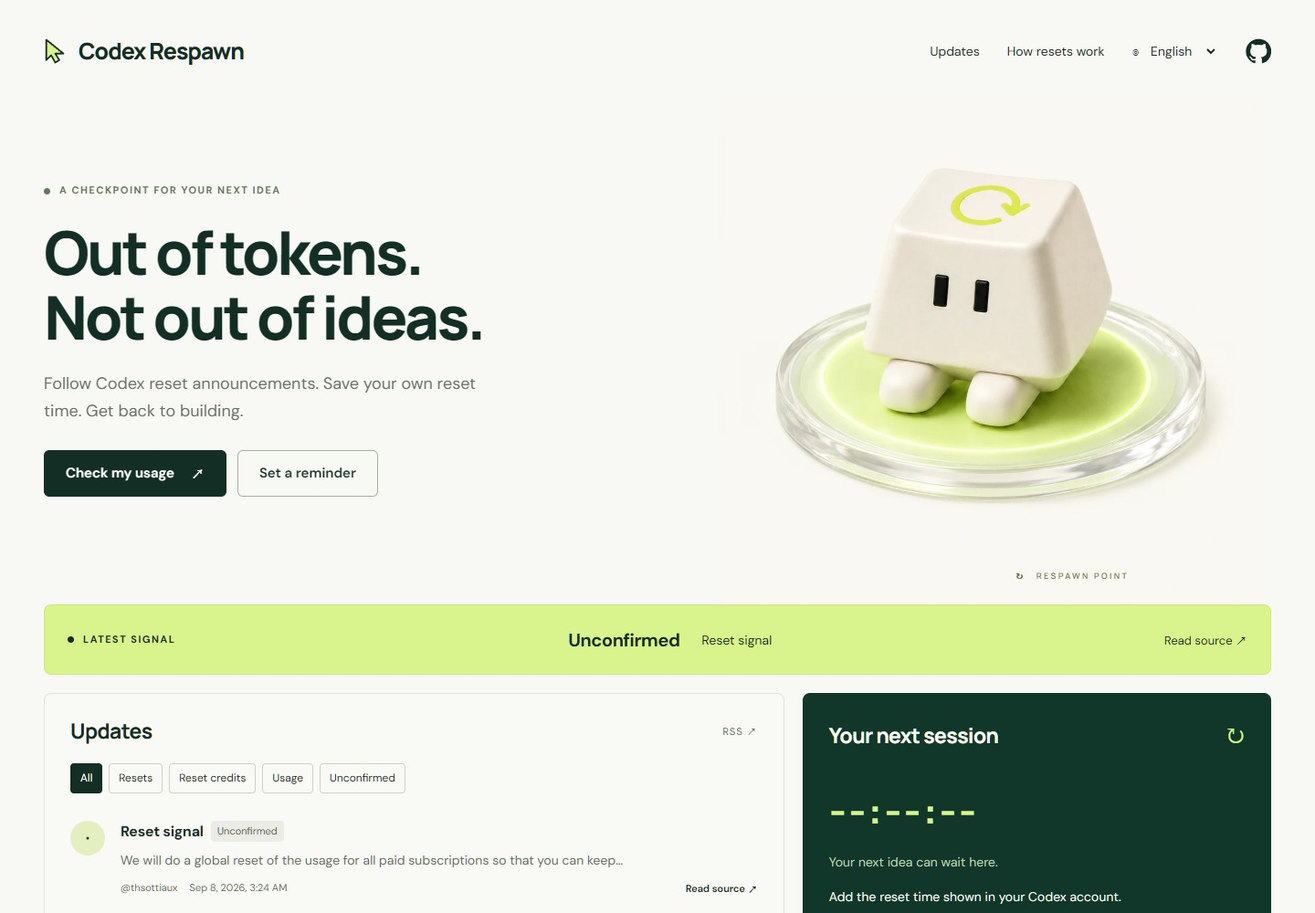
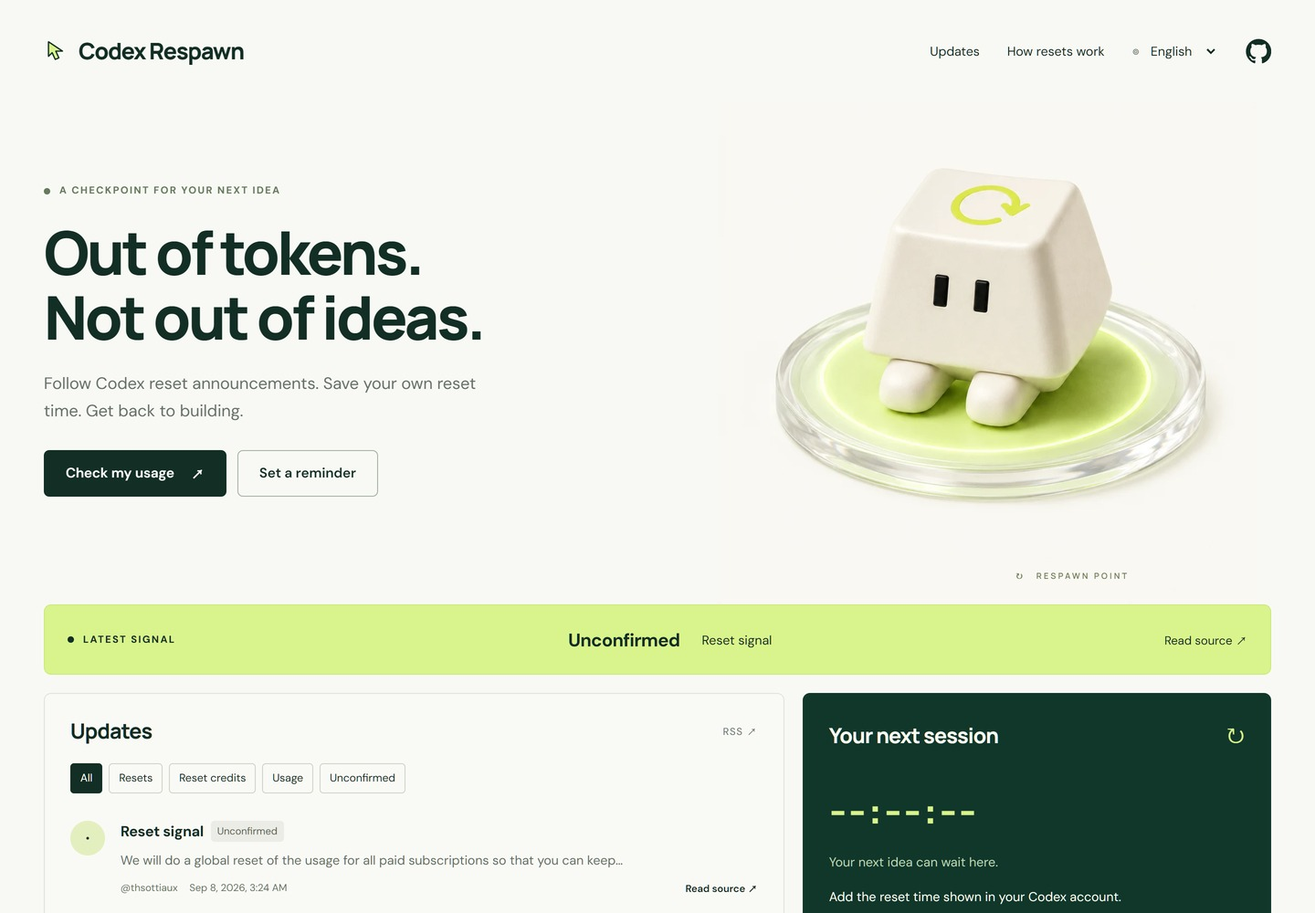
Preserve pixel cursor texture and add independent source discovery

Changed region(s): [[0.0312, 0.031, 0.1875, 0.062], [0.7188, 0.961, 0.75, 0.992], [0.125, 0.899, 0.1562, 0.93]]

diff --git a/src/style.css b/src/style.css
@@ -1,8 +1,8 @@
 @font-face{font-family:Manrope;src:url('./manrope-latin.woff2') format('woff2');font-weight:200 800;font-display:swap}@font-face{font-family:'DM Sans';src:url('./dm-sans-latin.woff2') format('woff2');font-weight:100 1000;font-display:swap}
-:root{--paper:#f8f9f4;--ink:#122e25;--muted:#667168;--lime:#d9f48c;--line:#dfe3d9;--font:'DM Sans',Arial,'Microsoft YaHei','Noto Sans',sans-serif;color:var(--ink);background:var(--paper);font-family:var(--font);font-synthesis:none;scroll-behavior:smooth;scroll-padding-top:24px}*{box-sizing:border-box}body{margin:0}a{color:inherit;text-decoration:none}button,input,select{font:inherit}button,a,select,input{-webkit-tap-highlight-color:transparent}button,select{cursor:pointer}button{color:inherit}button:disabled{cursor:default}a:focus-visible,button:focus-visible,select:focus-visible,input:focus-visible,summary:focus-visible{outline:3px solid #7b9d2f;outline-offset:5px}[hidden]{display:none!important}.shell{max-width:1440px;padding:0 48px;margin:auto}.site-header{height:112px;display:flex;justify-content:space-between;align-items:center;gap:24px}.brand{display:flex;align-items:center;gap:13px;white-space:nowrap;font:800 25px/1.1 Manrope,var(--font);letter-spacing:-1.1px}.brand-icon{width:25px;height:32px;color:var(--lime)}nav{display:flex;align-items:center;gap:30px;font-size:14px}nav a:hover,.text-link:hover,.footer-links a:hover{text-decoration:underline;text-underline-offset:5px}.language{display:flex;align-items:center;gap:6px}.language select{background:transparent;color:var(--ink);border:0;max-width:130px;padding:10px 2px}.github{width:28px;height:28px;flex-shrink:0}.github svg{width:100%;height:100%}.hero{display:grid;grid-template-columns:1.16fr 1fr;align-items:center;min-height:440px;position:relative}.hero-copy{position:relative;z-index:1;padding:28px 0 58px}.eyebrow{font-size:11px;font-weight:700;letter-spacing:1.5px;text-transform:uppercase;display:flex;gap:10px;align-items:center;line-height:1.6}.eyebrow span:first-child{width:7px;height:7px;border-radius:50%;background:currentColor;flex-shrink:0}.hero .eyebrow{color:#657a5d;margin:0 0 23px}h1{font:800 clamp(40px,4.6vw,66px)/1.07 Manrope,var(--font);letter-spacing:-3.1px;margin:0;max-width:700px}.intro{font-size:18px;line-height:1.65;color:var(--muted);max-width:490px;margin:24px 0 27px}.actions{display:flex;flex-wrap:wrap;gap:12px}.button{border:1px solid #a5b0a2;background:transparent;border-radius:6px;min-height:51px;padding:14px 23px;display:inline-flex;align-items:center;justify-content:center;gap:18px;font-weight:600;font-size:15px;transition:background .16s,transform .16s}.button:hover{background:#edf0e6;transform:translateY(-1px)}.primary{background:var(--ink);color:#fff;border-color:var(--ink)}.primary:hover{background:#244b3d}.hero-art{align-self:stretch;position:relative;display:flex;align-items:center;justify-content:center;min-width:0;isolation:isolate}.hero-art img{width:112%;height:auto;max-width:590px;object-fit:contain;mix-blend-mode:multiply;margin-top:-40px;pointer-events:none}.orbit-label{position:absolute;bottom:27px;right:25%;font:600 9px/1 Manrope,var(--font);letter-spacing:2.4px;color:#6e7d57}.latest-strip{display:flex;align-items:center;justify-content:space-between;gap:22px;padding:21px 25px;background:var(--lime);border:1px solid #cce97a;border-radius:8px;margin-bottom:20px;min-height:77px}.latest-strip a{font-size:13px;white-space:nowrap}.latest-message{display:flex;align-items:center;gap:24px;flex:1;justify-content:center}.latest-message strong{font-size:20px;letter-spacing:-.5px}.latest-message>span{font-size:14px}.content-grid{display:grid;grid-template-columns:minmax(0,1.58fr) minmax(280px,1fr);gap:20px;align-items:start}.updates-panel{border:1px solid var(--line);border-radius:8px;padding:26px 28px 12px;background:#ffffff30}.section-heading{display:flex;justify-content:space-between;gap:15px;align-items:center;margin-bottom:20px}h2{font:750 23px/1.3 Manrope,var(--font);letter-spacing:-.7px;margin:0}.feed-link{font-size:11px;color:var(--muted);letter-spacing:1px}.filters{display:flex;gap:7px;flex-wrap:wrap;margin-bottom:10px}.filters button{font-size:11px;padding:7px 10px;min-height:33px;border:1px solid #cdd4c7;background:transparent;border-radius:4px}.filters button[aria-pressed=true]{background:var(--ink);border-color:var(--ink);color:white}.event-row{padding:22px 0;display:flex;gap:17px;border-bottom:1px solid var(--line)}.event-row:last-child{border:0}.event-icon{background:#e4efbf;border-radius:50%;width:38px;height:38px;display:flex;align-items:center;justify-content:center;font-size:26px;flex-shrink:0}.event-main{min-width:0;flex:1}.event-title{display:flex;gap:8px;align-items:center;flex-wrap:wrap}.event-title>a{font-weight:700;font-size:16px;letter-spacing:-.25px}.event-title>a:hover{text-decoration:underline}.badge{font-size:10px;padding:4px 7px;background:#e8eddf;border-radius:4px;display:inline-block;line-height:1.4}.badge.unconfirmed{background:#ebece5;color:#596353}.badge.reported{background:#dcedb7}.badge.announced{background:#e6efc4}.excerpt{font-size:13px;line-height:1.6;color:#677064;margin:9px 0 11px;overflow-wrap:anywhere}.event-meta{display:flex;flex-wrap:wrap;gap:6px 13px;align-items:center;color:#798075;font-size:10px}.event-meta a{margin-inline-start:auto;color:var(--ink);font-weight:600}.more{background:transparent;border:0;width:100%;padding:18px 0;font-size:12px;font-weight:600;display:flex;justify-content:space-between;align-items:center}.timer-card{background:#11372b;color:#f8faef;padding:30px 29px;border-radius:8px;position:sticky;top:24px}.timer-heading{display:flex;justify-content:space-between;align-items:center;gap:10px}.timer-heading>span{font-size:25px;color:var(--lime)}.timer-card h2{font-size:23px}.clock{font-family:Manrope,var(--font);font-variant-numeric:tabular-nums;font-size:clamp(28px,3.3vw,46px);font-weight:700;letter-spacing:2px;color:var(--lime);margin:34px 0 12px;white-space:nowrap}.timer-state{font-size:12px;color:#bcd4b2;min-height:20px}.timer-card>p{line-height:1.7;font-size:14px}.timer-card .lime{background:var(--lime);color:var(--ink);border-color:var(--lime);width:100%;margin-top:15px}.timer-card .lime:hover{background:#e5ffa4}.timer-card .timer-note{font-size:10px;color:#aec3ad;margin-top:23px}.timer-form{margin-top:20px}.timer-form label{display:block;font-size:12px;line-height:1.5;margin-bottom:8px}.timer-form input{display:block;min-width:0;width:100%;padding:12px 8px;border:1px solid #73927b;border-radius:4px;color:#f8faef;background:#264c3e;color-scheme:dark;direction:ltr}.timer-tools{display:flex;flex-wrap:wrap;gap:12px;margin-top:18px}.timer-tools button{color:#d7e7c1;background:none;border:0;padding:0;font-size:11px;text-decoration:underline;text-underline-offset:4px}.form-error{font-size:12px;color:#f4dfa3}.faq{border:1px solid var(--line);border-radius:8px;margin-top:22px;padding:24px 28px}.faq-heading{display:flex;align-items:center;gap:20px;margin-bottom:20px}.faq h2{font-size:20px}.bulb{background:var(--ink);color:var(--lime);font-size:30px;width:44px;height:44px;border-radius:50%;display:flex;align-items:center;justify-content:center;flex-shrink:0}.faq details{border-top:1px solid var(--line)}summary{padding:18px 0;list-style:none;display:flex;justify-content:space-between;align-items:center;gap:20px;cursor:pointer;font-size:14px;font-weight:600}summary::-webkit-details-marker{display:none}summary span{font-size:22px;font-weight:400}details[open] summary span{transform:rotate(45deg)}details p{font-size:14px;color:var(--muted);line-height:1.85;margin:0 0 20px;max-width:900px}details p a{text-decoration:underline}.source-health{padding:25px 0;border-bottom:1px solid var(--line);font-size:11px;color:var(--muted);line-height:1.7}.source-health>div:first-child{display:flex;align-items:center;gap:8px 14px;flex-wrap:wrap}.health-dot{width:6px;height:6px;border-radius:50%;background:#729440}.health-dot.stale,.health-dot.degraded{background:#b78a39}.source-health p{margin:8px 0}.data-links{display:flex;flex-wrap:wrap;gap:20px}.data-links a{color:var(--ink)}footer{padding:26px 0 32px}.footer-links{display:flex;justify-content:space-between;flex-wrap:wrap;gap:15px;font-size:12px}.footer-note{display:flex;justify-content:space-between;flex-wrap:wrap;gap:9px;margin-top:23px;font-size:9px;color:#87917f;line-height:1.7}.skip{position:absolute;top:-100px}.skip:focus{top:10px;left:10px;padding:15px;background:white;z-index:10}.detail{padding:40px 0 64px;max-width:900px}.detail .eyebrow{margin-top:40px}.detail h1{margin-bottom:22px}.detail .source-caption{margin-top:35px;color:var(--muted);font-size:12px}.detail blockquote{font-size:clamp(22px,3vw,36px);line-height:1.5;margin:15px 0 24px;font-weight:500;overflow-wrap:anywhere}.detail>p:not(.eyebrow){line-height:1.8}.detail .actions{margin:24px 0}.muted,.text-link{color:var(--muted);font-size:13px}.toast{position:fixed;bottom:24px;left:50%;transform:translateX(-50%);padding:13px 22px;background:var(--ink);color:white;border-radius:6px;box-shadow:0 5px 20px #0002;z-index:10}html[lang^=zh] h1,html[lang=ja] h1,html[lang=ko] h1{font-size:clamp(36px,4.4vw,62px);letter-spacing:-1.5px;line-height:1.23;word-break:normal;overflow-wrap:normal}html[lang=ar] h1{line-height:1.3;letter-spacing:0}html[lang=ar] .eyebrow{letter-spacing:0}html[dir=rtl] .hero-art img{transform:scaleX(-1)}
+:root{--paper:#f8f9f4;--ink:#122e25;--muted:#667168;--lime:#d9f48c;--line:#dfe3d9;--font:'DM Sans',Arial,'Microsoft YaHei','Noto Sans',sans-serif;color:var(--ink);background:var(--paper);font-family:var(--font);font-synthesis:none;scroll-behavior:smooth;scroll-padding-top:24px}*{box-sizing:border-box}body{margin:0}a{color:inherit;text-decoration:none}button,input,select{font:inherit}button,a,select,input{-webkit-tap-highlight-color:transparent}button,select{cursor:pointer}button{color:inherit}button:disabled{cursor:default}a:focus-visible,button:focus-visible,select:focus-visible,input:focus-visible,summary:focus-visible{outline:3px solid #7b9d2f;outline-offset:5px}[hidden]{display:none!important}.shell{max-width:1440px;padding:0 48px;margin:auto}.site-header{height:112px;display:flex;justify-content:space-between;align-items:center;gap:24px}.brand{display:flex;align-items:center;gap:13px;white-space:nowrap;font:800 25px/1.1 Manrope,var(--font);letter-spacing:-1.1px}.brand-icon{width:30px;height:34px;color:var(--lime)}nav{display:flex;align-items:center;gap:30px;font-size:14px}nav a:hover,.text-link:hover,.footer-links a:hover{text-decoration:underline;text-underline-offset:5px}.language{display:flex;align-items:center;gap:6px}.language select{background:transparent;color:var(--ink);border:0;max-width:130px;padding:10px 2px}.github{width:28px;height:28px;flex-shrink:0}.github svg{width:100%;height:100%}.hero{display:grid;grid-template-columns:1.16fr 1fr;align-items:center;min-height:440px;position:relative}.hero-copy{position:relative;z-index:1;padding:28px 0 58px}.eyebrow{font-size:11px;font-weight:700;letter-spacing:1.5px;text-transform:uppercase;display:flex;gap:10px;align-items:center;line-height:1.6}.eyebrow span:first-child{width:7px;height:7px;border-radius:50%;background:currentColor;flex-shrink:0}.hero .eyebrow{color:#657a5d;margin:0 0 23px}h1{font:800 clamp(40px,4.6vw,66px)/1.07 Manrope,var(--font);letter-spacing:-3.1px;margin:0;max-width:700px}.intro{font-size:18px;line-height:1.65;color:var(--muted);max-width:490px;margin:24px 0 27px}.actions{display:flex;flex-wrap:wrap;gap:12px}.button{border:1px solid #a5b0a2;background:transparent;border-radius:6px;min-height:51px;padding:14px 23px;display:inline-flex;align-items:center;justify-content:center;gap:18px;font-weight:600;font-size:15px;transition:background .16s,transform .16s}.button:hover{background:#edf0e6;transform:translateY(-1px)}.primary{background:var(--ink);color:#fff;border-color:var(--ink)}.primary:hover{background:#244b3d}.hero-art{align-self:stretch;position:relative;display:flex;align-items:center;justify-content:center;min-width:0;isolation:isolate}.hero-art img{width:112%;height:auto;max-width:590px;object-fit:contain;mix-blend-mode:multiply;margin-top:-40px;pointer-events:none}.orbit-label{position:absolute;bottom:27px;right:25%;font:600 9px/1 Manrope,var(--font);letter-spacing:2.4px;color:#6e7d57}.latest-strip{display:flex;align-items:center;justify-content:space-between;gap:22px;padding:21px 25px;background:var(--lime);border:1px solid #cce97a;border-radius:8px;margin-bottom:20px;min-height:77px}.latest-strip a{font-size:13px;white-space:nowrap}.latest-message{display:flex;align-items:center;gap:24px;flex:1;justify-content:center}.latest-message strong{font-size:20px;letter-spacing:-.5px}.latest-message>span{font-size:14px}.content-grid{display:grid;grid-template-columns:minmax(0,1.58fr) minmax(280px,1fr);gap:20px;align-items:start}.updates-panel{border:1px solid var(--line);border-radius:8px;padding:26px 28px 12px;background:#ffffff30}.section-heading{display:flex;justify-content:space-between;gap:15px;align-items:center;margin-bottom:20px}h2{font:750 23px/1.3 Manrope,var(--font);letter-spacing:-.7px;margin:0}.feed-link{font-size:11px;color:var(--muted);letter-spacing:1px}.filters{display:flex;gap:7px;flex-wrap:wrap;margin-bottom:10px}.filters button{font-size:11px;padding:7px 10px;min-height:33px;border:1px solid #cdd4c7;background:transparent;border-radius:4px}.filters button[aria-pressed=true]{background:var(--ink);border-color:var(--ink);color:white}.event-row{padding:22px 0;display:flex;gap:17px;border-bottom:1px solid var(--line)}.event-row:last-child{border:0}.event-icon{background:#e4efbf;border-radius:50%;width:38px;height:38px;display:flex;align-items:center;justify-content:center;font-size:26px;flex-shrink:0}.event-main{min-width:0;flex:1}.event-title{display:flex;gap:8px;align-items:center;flex-wrap:wrap}.event-title>a{font-weight:700;font-size:16px;letter-spacing:-.25px}.event-title>a:hover{text-decoration:underline}.badge{font-size:10px;padding:4px 7px;background:#e8eddf;border-radius:4px;display:inline-block;line-height:1.4}.badge.unconfirmed{background:#ebece5;color:#596353}.badge.reported{background:#dcedb7}.badge.announced{background:#e6efc4}.excerpt{font-size:13px;line-height:1.6;color:#677064;margin:9px 0 11px;overflow-wrap:anywhere}.event-meta{display:flex;flex-wrap:wrap;gap:6px 13px;align-items:center;color:#798075;font-size:10px}.event-meta a{margin-inline-start:auto;color:var(--ink);font-weight:600}.more{background:transparent;border:0;width:100%;padding:18px 0;font-size:12px;font-weight:600;display:flex;justify-content:space-between;align-items:center}.timer-card{background:#11372b;color:#f8faef;padding:30px 29px;border-radius:8px;position:sticky;top:24px}.timer-heading{display:flex;justify-content:space-between;align-items:center;gap:10px}.timer-heading>span{font-size:25px;color:var(--lime)}.timer-card h2{font-size:23px}.clock{font-family:Manrope,var(--font);font-variant-numeric:tabular-nums;font-size:clamp(28px,3.3vw,46px);font-weight:700;letter-spacing:2px;color:var(--lime);margin:34px 0 12px;white-space:nowrap}.timer-state{font-size:12px;color:#bcd4b2;min-height:20px}.timer-card>p{line-height:1.7;font-size:14px}.timer-card .lime{background:var(--lime);color:var(--ink);border-color:var(--lime);width:100%;margin-top:15px}.timer-card .lime:hover{background:#e5ffa4}.timer-card .timer-note{font-size:10px;color:#aec3ad;margin-top:23px}.timer-form{margin-top:20px}.timer-form label{display:block;font-size:12px;line-height:1.5;margin-bottom:8px}.timer-form input{display:block;min-width:0;width:100%;padding:12px 8px;border:1px solid #73927b;border-radius:4px;color:#f8faef;background:#264c3e;color-scheme:dark;direction:ltr}.timer-tools{display:flex;flex-wrap:wrap;gap:12px;margin-top:18px}.timer-tools button{color:#d7e7c1;background:none;border:0;padding:0;font-size:11px;text-decoration:underline;text-underline-offset:4px}.form-error{font-size:12px;color:#f4dfa3}.faq{border:1px solid var(--line);border-radius:8px;margin-top:22px;padding:24px 28px}.faq-heading{display:flex;align-items:center;gap:20px;margin-bottom:20px}.faq h2{font-size:20px}.bulb{background:var(--ink);color:var(--lime);font-size:30px;width:44px;height:44px;border-radius:50%;display:flex;align-items:center;justify-content:center;flex-shrink:0}.faq details{border-top:1px solid var(--line)}summary{padding:18px 0;list-style:none;display:flex;justify-content:space-between;align-items:center;gap:20px;cursor:pointer;font-size:14px;font-weight:600}summary::-webkit-details-marker{display:none}summary span{font-size:22px;font-weight:400}details[open] summary span{transform:rotate(45deg)}details p{font-size:14px;color:var(--muted);line-height:1.85;margin:0 0 20px;max-width:900px}details p a{text-decoration:underline}.source-health{padding:25px 0;border-bottom:1px solid var(--line);font-size:11px;color:var(--muted);line-height:1.7}.source-health>div:first-child{display:flex;align-items:center;gap:8px 14px;flex-wrap:wrap}.health-dot{width:6px;height:6px;border-radius:50%;background:#729440}.health-dot.stale,.health-dot.degraded{background:#b78a39}.source-health p{margin:8px 0}.data-links{display:flex;flex-wrap:wrap;gap:20px}.data-links a{color:var(--ink)}footer{padding:26px 0 32px}.footer-links{display:flex;justify-content:space-between;flex-wrap:wrap;gap:15px;font-size:12px}.footer-note{display:flex;justify-content:space-between;flex-wrap:wrap;gap:9px;margin-top:23px;font-size:9px;color:#87917f;line-height:1.7}.skip{position:absolute;top:-100px}.skip:focus{top:10px;left:10px;padding:15px;background:white;z-index:10}.detail{padding:40px 0 64px;max-width:900px}.detail .eyebrow{margin-top:40px}.detail h1{margin-bottom:22px}.detail .source-caption{margin-top:35px;color:var(--muted);font-size:12px}.detail blockquote{font-size:clamp(22px,3vw,36px);line-height:1.5;margin:15px 0 24px;font-weight:500;overflow-wrap:anywhere}.detail>p:not(.eyebrow){line-height:1.8}.detail .actions{margin:24px 0}.muted,.text-link{color:var(--muted);font-size:13px}.toast{position:fixed;bottom:24px;left:50%;transform:translateX(-50%);padding:13px 22px;background:var(--ink);color:white;border-radius:6px;box-shadow:0 5px 20px #0002;z-index:10}html[lang^=zh] h1,html[lang=ja] h1,html[lang=ko] h1{font-size:clamp(36px,4.4vw,62px);letter-spacing:-1.5px;line-height:1.23;word-break:normal;overflow-wrap:normal}html[lang=ar] h1{line-height:1.3;letter-spacing:0}html[lang=ar] .eyebrow{letter-spacing:0}html[dir=rtl] .hero-art img{transform:scaleX(-1)}
 @media(min-width:1450px){.hero{min-height:490px}.hero-art img{max-width:625px}}
 @media(max-width:1000px){.shell{padding:0 30px}.site-header{height:96px}.brand{font-size:22px}nav{gap:18px}.hero{grid-template-columns:1.18fr 1fr;min-height:400px}h1{font-size:48px;letter-spacing:-2px}.intro{font-size:16px}.hero-art img{width:120%;margin-top:-30px}.hero-copy{padding-bottom:40px}.button{font-size:13px;padding:13px 17px}.latest-message{gap:12px}.latest-message strong{font-size:17px}.latest-message>span{font-size:12px}.latest-strip{padding:18px}.latest-strip .eyebrow{font-size:9px}.content-grid{grid-template-columns:minmax(0,1.35fr) minmax(270px,1fr)}.updates-panel{padding:23px 20px 8px}.timer-card{padding:25px 22px}.clock{font-size:32px;letter-spacing:1px}.event-row{gap:12px}.event-icon{width:32px;height:32px;font-size:23px}.event-title>a{font-size:14px}.nav-text{display:none}}
-@media(max-width:700px){.shell{padding:0 20px}.site-header{height:84px;gap:12px}.brand{font-size:20px;gap:9px;letter-spacing:-.8px}.brand-icon{width:21px;height:27px}nav{gap:13px}.github{width:23px;height:23px}.language{gap:0}.language>span{display:none}.language select{font-size:12px;max-width:102px}.hero{display:flex;flex-direction:column;min-height:0}.hero-copy{padding:26px 0 0;width:100%}.hero .eyebrow{font-size:9px;margin-bottom:20px}h1{font-size:clamp(40px,8vw,54px);line-height:1.08;letter-spacing:-2.2px;max-width:530px}.intro{font-size:15px;margin:20px 0 23px;max-width:470px}.actions{gap:10px}.button{min-height:48px;font-size:13px;padding:13px 18px}.hero-art{align-self:center;width:100%;height:275px;margin-top:4px;overflow:hidden}.hero-art img{width:360px;max-width:100%;margin-top:0}.orbit-label{bottom:19px;right:20%;font-size:8px}.latest-strip{display:grid;grid-template-columns:1fr auto;gap:9px 12px;padding:17px 18px;margin-bottom:15px}.latest-strip .eyebrow{grid-column:1/-1}.latest-message{justify-content:flex-start;align-items:flex-start;flex-direction:column;gap:4px}.latest-strip a{font-size:11px}.latest-message strong{font-size:17px}.content-grid{display:flex;flex-direction:column;gap:15px}.updates-panel,.timer-card{width:100%}.timer-card{position:static;padding:27px}.updates-panel{padding:23px 20px 8px}h2{font-size:22px}.event-row{padding:20px 0}.event-title>a{font-size:15px}.event-meta{font-size:10px}.excerpt{font-size:12px}.clock{font-size:43px;margin:26px 0 10px}.timer-card .timer-note{font-size:11px}.faq{padding:22px 20px;margin-top:15px}.faq-heading{gap:13px;align-items:flex-start}.faq h2{font-size:19px;line-height:1.45}.bulb{width:37px;height:37px;font-size:25px}summary{font-size:13px;line-height:1.6}details p{font-size:13px}.footer-links{font-size:11px}.footer-note{font-size:9px}.source-health{font-size:10px}.detail{padding-top:25px}.detail h1{font-size:38px}html[lang^=zh] h1,html[lang=ja] h1,html[lang=ko] h1{font-size:clamp(36px,7.7vw,50px);letter-spacing:-1px;max-width:560px}html[lang=ar] h1{font-size:45px}.hero-art img{object-fit:contain}}
+@media(max-width:700px){.shell{padding:0 20px}.site-header{height:84px;gap:12px}.brand{font-size:20px;gap:9px;letter-spacing:-.8px}.brand-icon{width:24px;height:28px}nav{gap:13px}.github{width:23px;height:23px}.language{gap:0}.language>span{display:none}.language select{font-size:12px;max-width:102px}.hero{display:flex;flex-direction:column;min-height:0}.hero-copy{padding:26px 0 0;width:100%}.hero .eyebrow{font-size:9px;margin-bottom:20px}h1{font-size:clamp(40px,8vw,54px);line-height:1.08;letter-spacing:-2.2px;max-width:530px}.intro{font-size:15px;margin:20px 0 23px;max-width:470px}.actions{gap:10px}.button{min-height:48px;font-size:13px;padding:13px 18px}.hero-art{align-self:center;width:100%;height:275px;margin-top:4px;overflow:hidden}.hero-art img{width:360px;max-width:100%;margin-top:0}.orbit-label{bottom:19px;right:20%;font-size:8px}.latest-strip{display:grid;grid-template-columns:1fr auto;gap:9px 12px;padding:17px 18px;margin-bottom:15px}.latest-strip .eyebrow{grid-column:1/-1}.latest-message{justify-content:flex-start;align-items:flex-start;flex-direction:column;gap:4px}.latest-strip a{font-size:11px}.latest-message strong{font-size:17px}.content-grid{display:flex;flex-direction:column;gap:15px}.updates-panel,.timer-card{width:100%}.timer-card{position:static;padding:27px}.updates-panel{padding:23px 20px 8px}h2{font-size:22px}.event-row{padding:20px 0}.event-title>a{font-size:15px}.event-meta{font-size:10px}.excerpt{font-size:12px}.clock{font-size:43px;margin:26px 0 10px}.timer-card .timer-note{font-size:11px}.faq{padding:22px 20px;margin-top:15px}.faq-heading{gap:13px;align-items:flex-start}.faq h2{font-size:19px;line-height:1.45}.bulb{width:37px;height:37px;font-size:25px}summary{font-size:13px;line-height:1.6}details p{font-size:13px}.footer-links{font-size:11px}.footer-note{font-size:9px}.source-health{font-size:10px}.detail{padding-top:25px}.detail h1{font-size:38px}html[lang^=zh] h1,html[lang=ja] h1,html[lang=ko] h1{font-size:clamp(36px,7.7vw,50px);letter-spacing:-1px;max-width:560px}html[lang=ar] h1{font-size:45px}.hero-art img{object-fit:contain}}
 @media(max-width:370px){.shell{padding:0 15px}.brand{font-size:18px;gap:7px}.language select{max-width:86px}.github{width:20px;height:20px}nav{gap:7px}h1{font-size:38px}.button{padding:12px 14px;font-size:12px}.filters{gap:5px}.filters button{padding:6px 8px;font-size:10px}.clock{font-size:36px}}
 .hero-art{overflow:hidden}.headline-sentence{display:block}.hero h1 .headline-sentence{max-width:100%}
 .footer-note{font-size:11px;color:#677164}.event-meta{font-size:11px;color:#687362}.badge{font-size:11px}.filters button{font-size:12px}.timer-card .timer-note{font-size:11px}.source-health{font-size:12px}.excerpt{font-size:14px}.event-row{padding:20px 0}

diff --git a/docs/automation.md b/docs/automation.md
@@ -2,7 +2,7 @@
 
 The production workflow is `.github/workflows/site.yml`. It checks announcements twice hourly, writes a daily Markdown digest at 02:23 UTC, validates records, builds the static site and deploys GitHub Pages. Public files are served on `shixilin.com/ai/codex-reset/` through the personal website's Vercel rewrite.
 
-The default collector needs no token, LLM or billing account. Community discovery supplies candidate URLs only. X official embeds verify the author, post identity and visible text. Full source text is hashed, not republished in full. Quotes are limited to a short excerpt.
+The default collector needs no token, LLM or billing account. Independent public discovery pages supply candidate URLs only. Codex Reset Monitor and Codex Resets are checked independently; CodexRunway is a fallback if both are unavailable. X official embeds verify the author, post identity and visible text. Full source text is hashed, not republished in full. Quotes are limited to a short excerpt.
 
 `X_BEARER_TOKEN` together with `ENABLE_PAID_X_API=true` explicitly selects the optional official timeline adapter when running the collector. The hosted workflow does not set either value. Operators must review X's current pricing and permissions before enabling this path. There is no silent paid fallback.
 

diff --git a/README.md b/README.md
@@ -14,7 +14,7 @@ Codex hits a limit. Your idea doesn't. Respawn brings public reset announcements
 
 ### What “checked” means
 
-Candidate links come from [Codex Reset's community feed](https://codex-reset.com/). Their visible text and authors are then checked against **X's official embed endpoint**. The discovery feed is not treated as evidence. Only allowlisted OpenAI accounts and the Codex lead are accepted.
+Candidate links come from the public pages of [Codex Reset Monitor](https://codexreset.org/) and [Codex Resets](https://codex-resets.com/), with [CodexRunway](https://www.codexrunway.com/) as a fallback. Their visible text and authors are then checked against **X's official embed endpoint**. These discovery indexes are not treated as evidence. Only allowlisted OpenAI accounts and the Codex lead are accepted.
 
 A truncated post stays **unconfirmed**, even when the visible portion sounds promising. An announcement never becomes a completed reset just because time has passed. “Reported complete” describes the source's statement; it does not verify your account.
 
